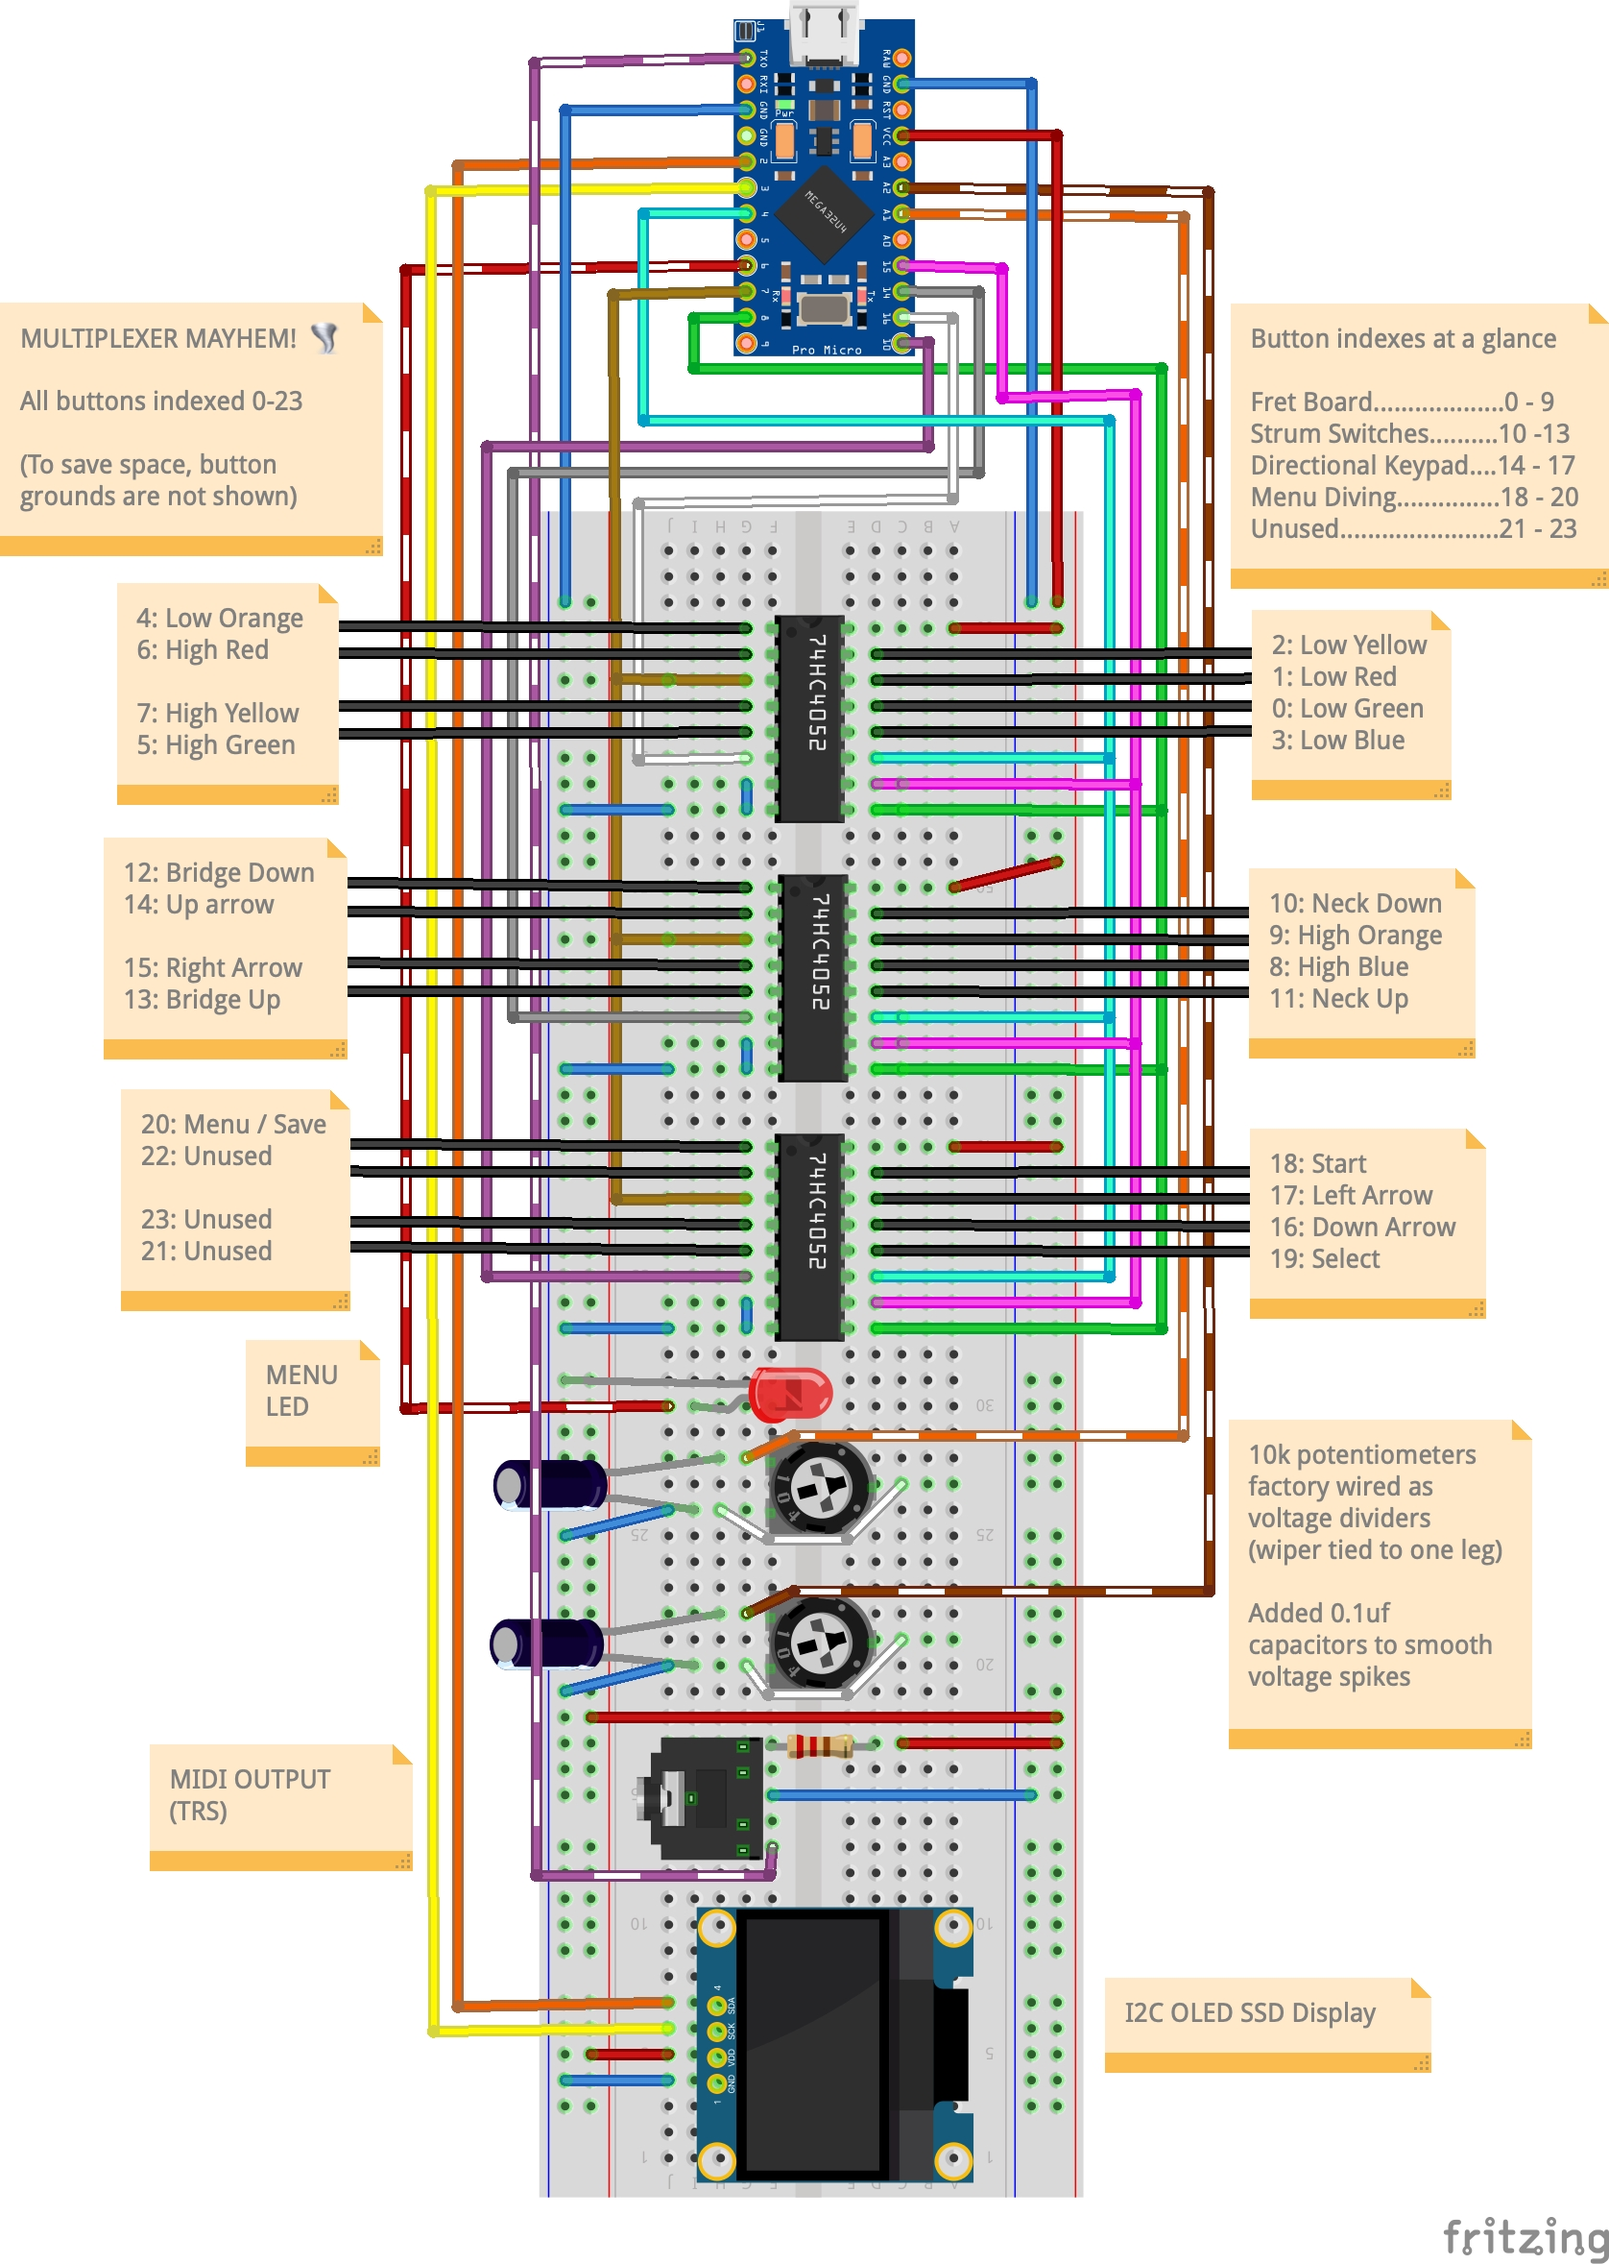
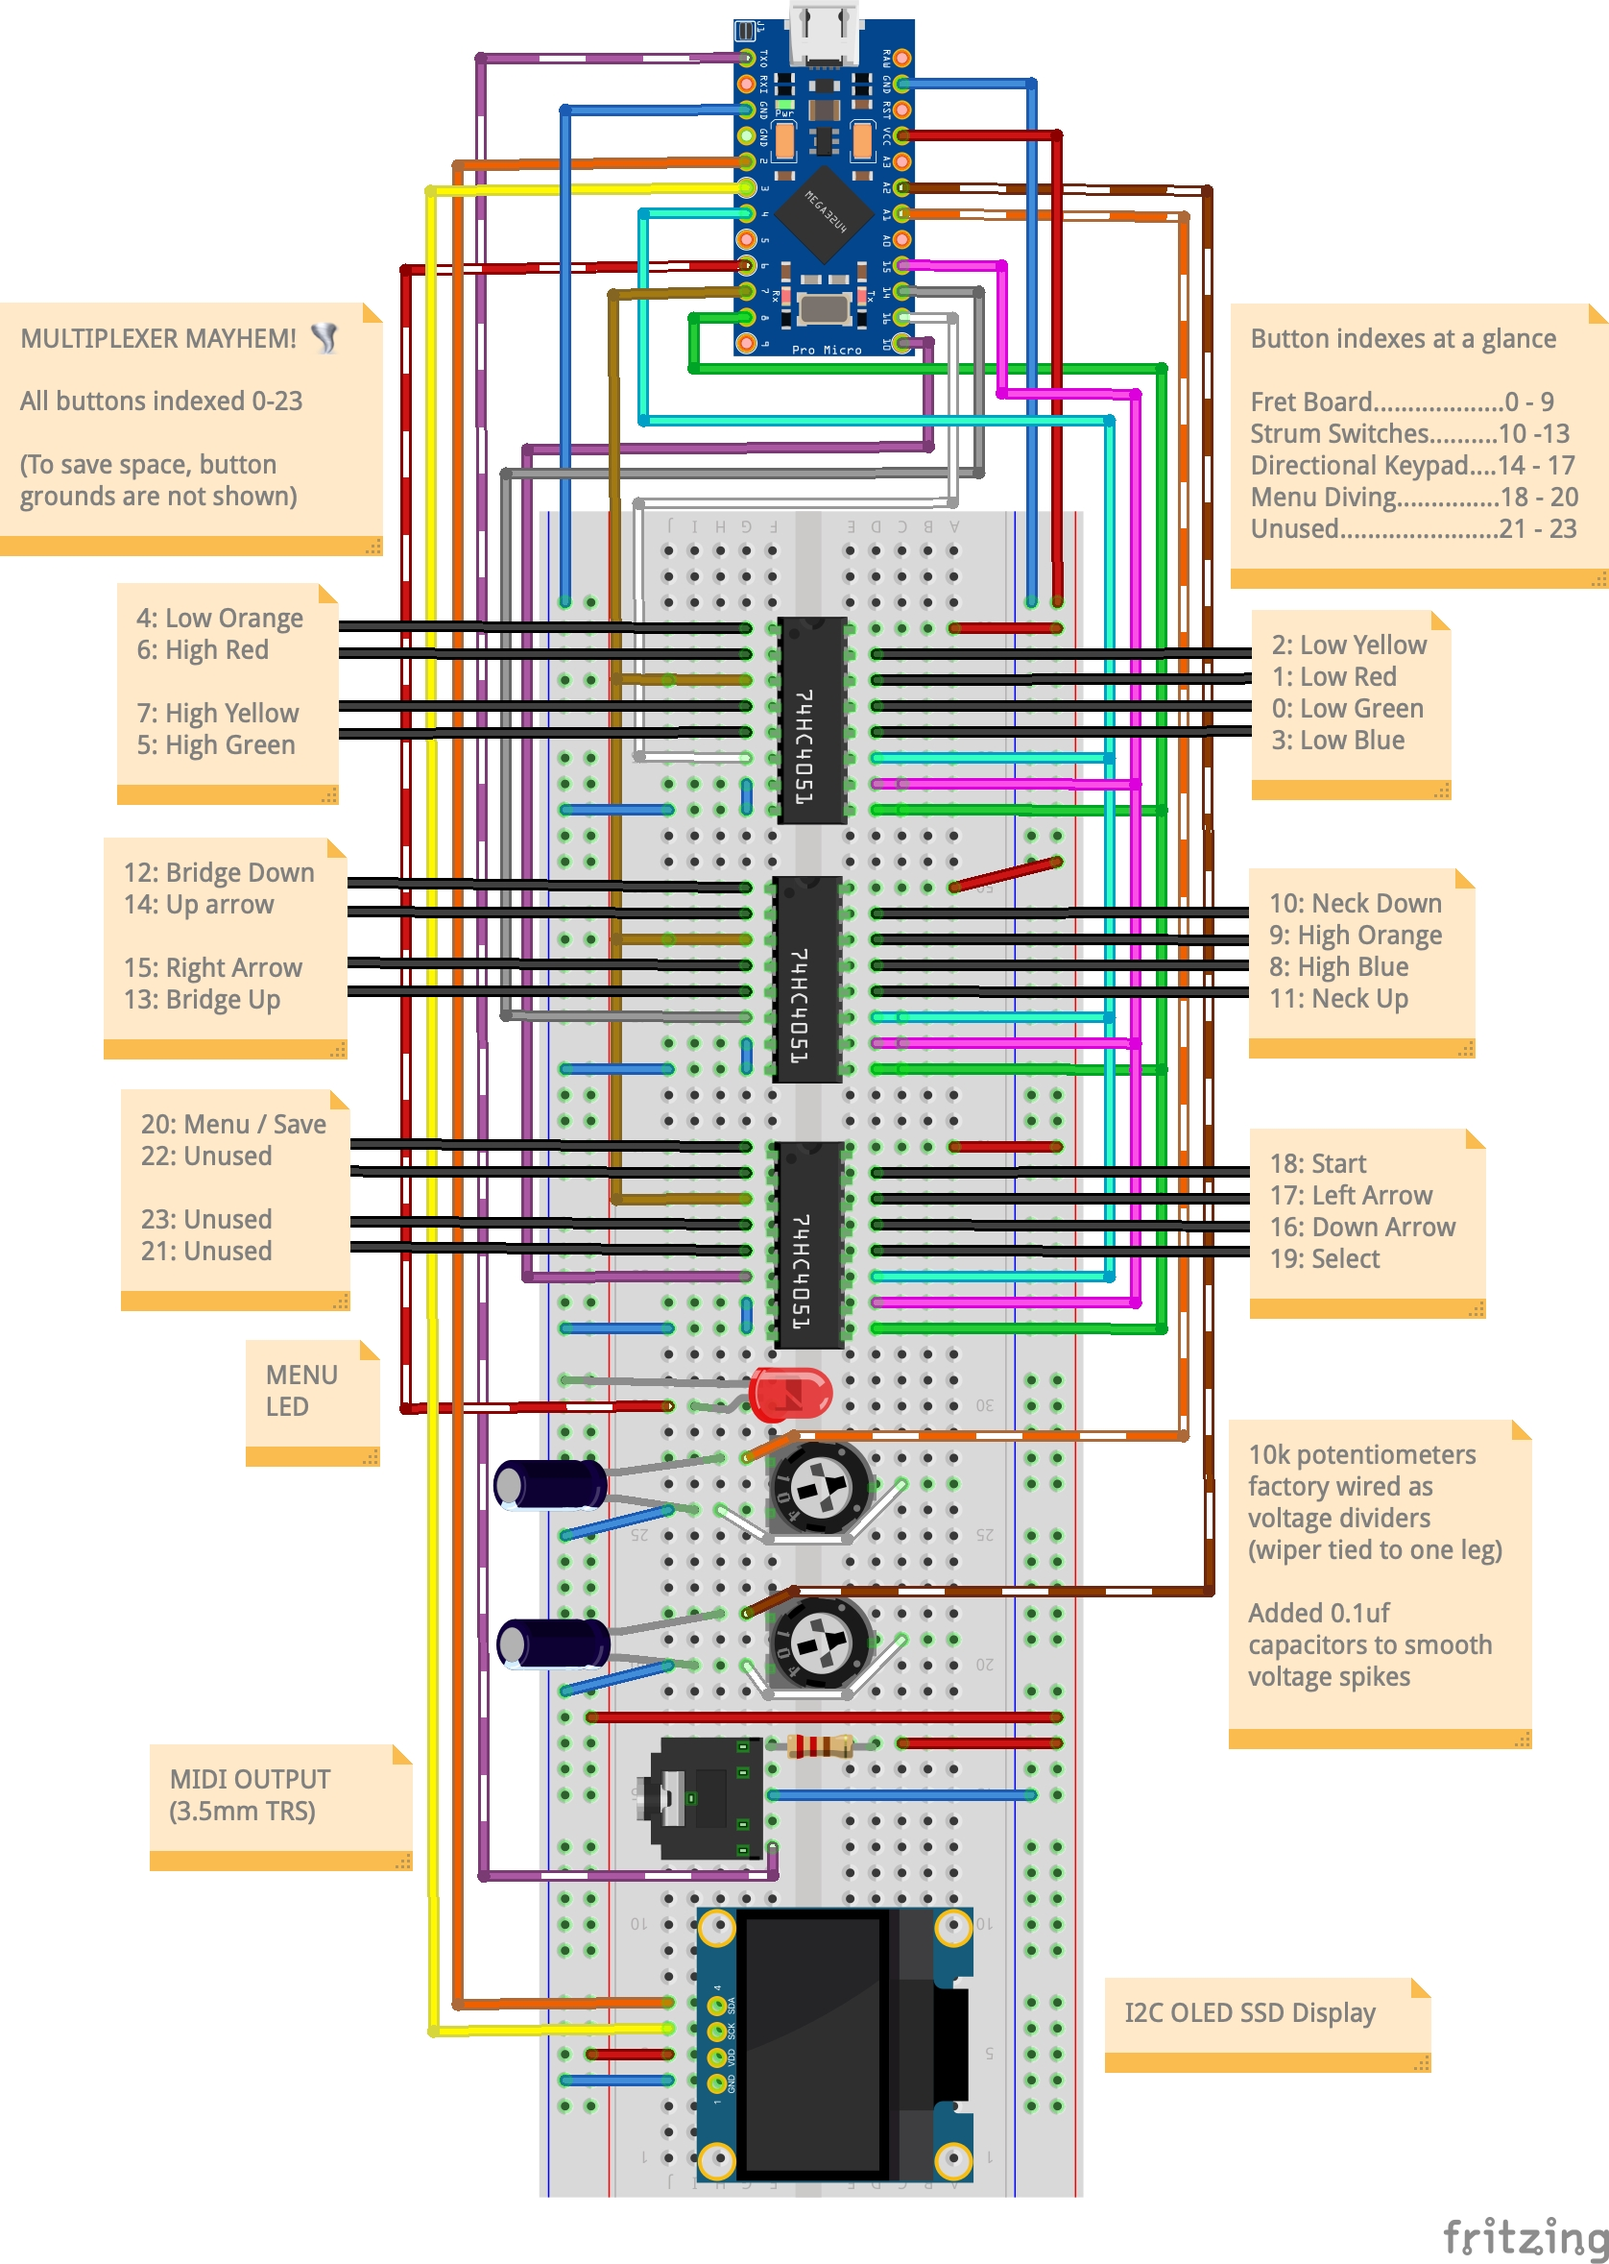
Wiring Diagram, readme

diff --git a/readme.md b/readme.md
@@ -54,7 +54,6 @@ Since the fret board on this controller is limited to 10 buttons I wanted to giv
 
 
 ## Wiring Diagram
-*This diagram pictures a 4052 IC but the actual circuit uses a 4051*
 
 <img src="images/guitarHackCircuitDiagram.jpeg" alt="Wiring Diagram" width="850"/>
 
@@ -64,14 +63,14 @@ Since the fret board on this controller is limited to 10 buttons I wanted to giv
 
 ### 🤔 I have a question
 
-The Pro Micro only has 16 available input pins, so how do we get the information from all of the 22 buttons individually and still have room for the pots and the screen?  
+The Pro Micro only has 16 available input pins, so how do we get the information from all of the 22 buttons individually and still have room for the potentiometers and the screen?  
 
 <img src="images/proMicroPinout.png" alt="Pro Micro Pinout" width="400"/>
 
 *Pro Micro Pinout*
 
 
-### 🙌 In steps a multiplexer.  
+### 🤚 Multiplexer has an answer  
 
 The multiplexer takes input from multiple sources and essentially funnels it into one output, allowing the signal to pass through each channel one at a time.  I used CD74HC4051 multiplexers (MUX) in this build, each one allows for 8 inputs.  Multiplexers can be stacked as well, so I used 3, giving me the ability, in this case, to connect up to 24 buttons to 1 input pin on the Arduino.  
 
@@ -79,7 +78,13 @@ The multiplexer takes input from multiple sources and essentially funnels it int
 
 <br>
 
-There is still a cost when it comes to pins with a multiplexer, the signal pins and the enable pin.  The way a multiplexer works is kind of like how a trumpet gets many notes from only three valves, only more simply.  In the case of a CD74HC4051 it uses 3 signal pins in various combinations of HIGH and LOW to allow the signal from each of the 8 channels to individually flow through to the common.  The next step is enabling and disabling each of the 3 multiplexers via the enable pin, allowing only one to pass the signal at a time.  The following truth table from the [data sheet](https://www.ti.com/lit/ds/symlink/cd74hc4051.pdf?ts=1700162797267&ref_url=https%253A%252F%252Fwww.ti.com%252Fproduct%252FCD74HC4051) helps by breaking down all the possible combinations of the signal and enable pins.  We can then use code to cycle through each channel very quickly.
+There is still a cost when it comes to pins with a multiplexer, the signal pins and the enable pin. Once the dust settles I can connect up to 24 individual buttons to only 7 pins on the Arduino. 
+
+- 1 common pin (Where the buttons are funneled to)
+- 3 signal pins (To control which button is connected to common)
+- 3 enable pins (To turn each individual MUX on or off completely)
+
+The way a multiplexer works is kind of like how a trumpet gets many notes from only three valves, only more simply.  In the case of a CD74HC4051 it uses 3 signal pins in various combinations of HIGH and LOW to allow the signal from each of the 8 channels to individually flow through to the common.  The next step is enabling and disabling each of the 3 multiplexers via the enable pin, allowing only one to pass the signal at a time.  The following truth table from the [data sheet](https://www.ti.com/lit/ds/symlink/cd74hc4051.pdf?ts=1700162797267&ref_url=https%253A%252F%252Fwww.ti.com%252Fproduct%252FCD74HC4051) helps by breaking down all the possible combinations of the signal and enable pin of a single MUX.  We can then use code to cycle through each channel and MUX individually and very quickly.
 
 <br>
 
@@ -87,8 +92,10 @@ There is still a cost when it comes to pins with a multiplexer, the signal pins 
 
 <br>
 
-This rapid switching through each channel is handled by the following two functions.  I relied on chatGPT to help with figuring out the logic for this.  I assure you, it wasn't as if I sat down and asked ol' Chad for some code and just I copy and pasted it.  It was a 6 hour+ back and forth of prompts and then me tweaking the generated code until I had tuned it to function the way I intended.  Here is the product of that session.
+This rapid switching through each channel is handled by the following two functions.  I relied on chatGPT to help with figuring out the logic for this.  This consisted of a 6 hour+ back and forth of prompts and then me tweaking the generated code until I had tuned it to function the way I intended.  
 
+<details>
+<summary>Open if you enjoy looking at code</summary>
 
 ```c++
 void buttonMux() {
@@ -142,6 +149,7 @@ void enableMux(uint8_t mux) {
   }
 }
 ```
+</details>
 
 <br>
 
@@ -155,7 +163,7 @@ MIDI.sendNoteOff(note, velocity, channel);
 
 ```
 
- Each `note on` will be executed the moment a note key is pressed. The `note off` will be executed once the button is released. The note is a value 0-127 and each correlates with a musical note and is what ties the `note off` to the `note on`. (with me?) 
+ Each `note on` will be executed the moment a note key is pressed. The `note off` will be executed once the button is released. The note is a value 0-127 and each correlates with a musical note and is what ties the `note off` to the `note on`. (still with me?) 
 
  Let's say a function transposes the note while it is being held.  Then something like below will more than likely happen causing the original note to play until it a `note off` is played for that note.  I call them `sticky notes` and they are pretty annoying. Especially when it is high pitched and I cannot make the right `note off` message happen 😵💫. 
 
@@ -166,6 +174,9 @@ MIDI.sendNoteOff(newNote, velocity, channel);
 ```  
 
 There are a few instances in the Guitar Hero Hack where there is the potential for this to happen and was indeed happening so many times during testing.  To help take care of this I implemented the `handleHeldNotesWhileTransposing` function.  It loops through any held notes, triggers their respective `note off`, updates the note by the chosen interval, and then plays the updated note or notes.  This make the instrument the sound of "tuning" it while scrolling through the available semitone and octave interval steps.
+
+<details>
+<summary>This my favorite function of the project, because of the sound it produces when notes are held</summary>
 
 ```c++
 // Change note on the fly if it being held down, will take care of MIDI note off for any held notes and MIDI on for the updated note value
@@ -205,12 +216,20 @@ void handleHeldNotesWhileTransposing(byte semitones) {
   }
 }
 ```
+</details>
+
+
+## Resources / Inspiration
+
+- **Notes and Volts**, [MIDI for the Arduino - Circuit Analysis](https://www.youtube.com/watch?v=0L7WAMFWSgY&list=PL4_gPbvyebyH2xfPXePHtx8gK5zPBrVkg&ab_channel=NotesandVolts)
+- **Gustavo Silveira**, [musiconerd.com](https://www.musiconerd.com/)
+- **Conrad Menchine**, [Guitar Hero MIDI Controller](https://www.youtube.com/watch?v=obNs_aYCkjY&ab_channel=ConradMenchine)
+- **The Legendary Z**
 
 
 ## Contributors
 
 - Jason Horst
-- Inspiration from a handful of docs, projects and articles I'm currently looking for the links to.
 - Chat GPT (tedious work, some logic)
 
 ## License
